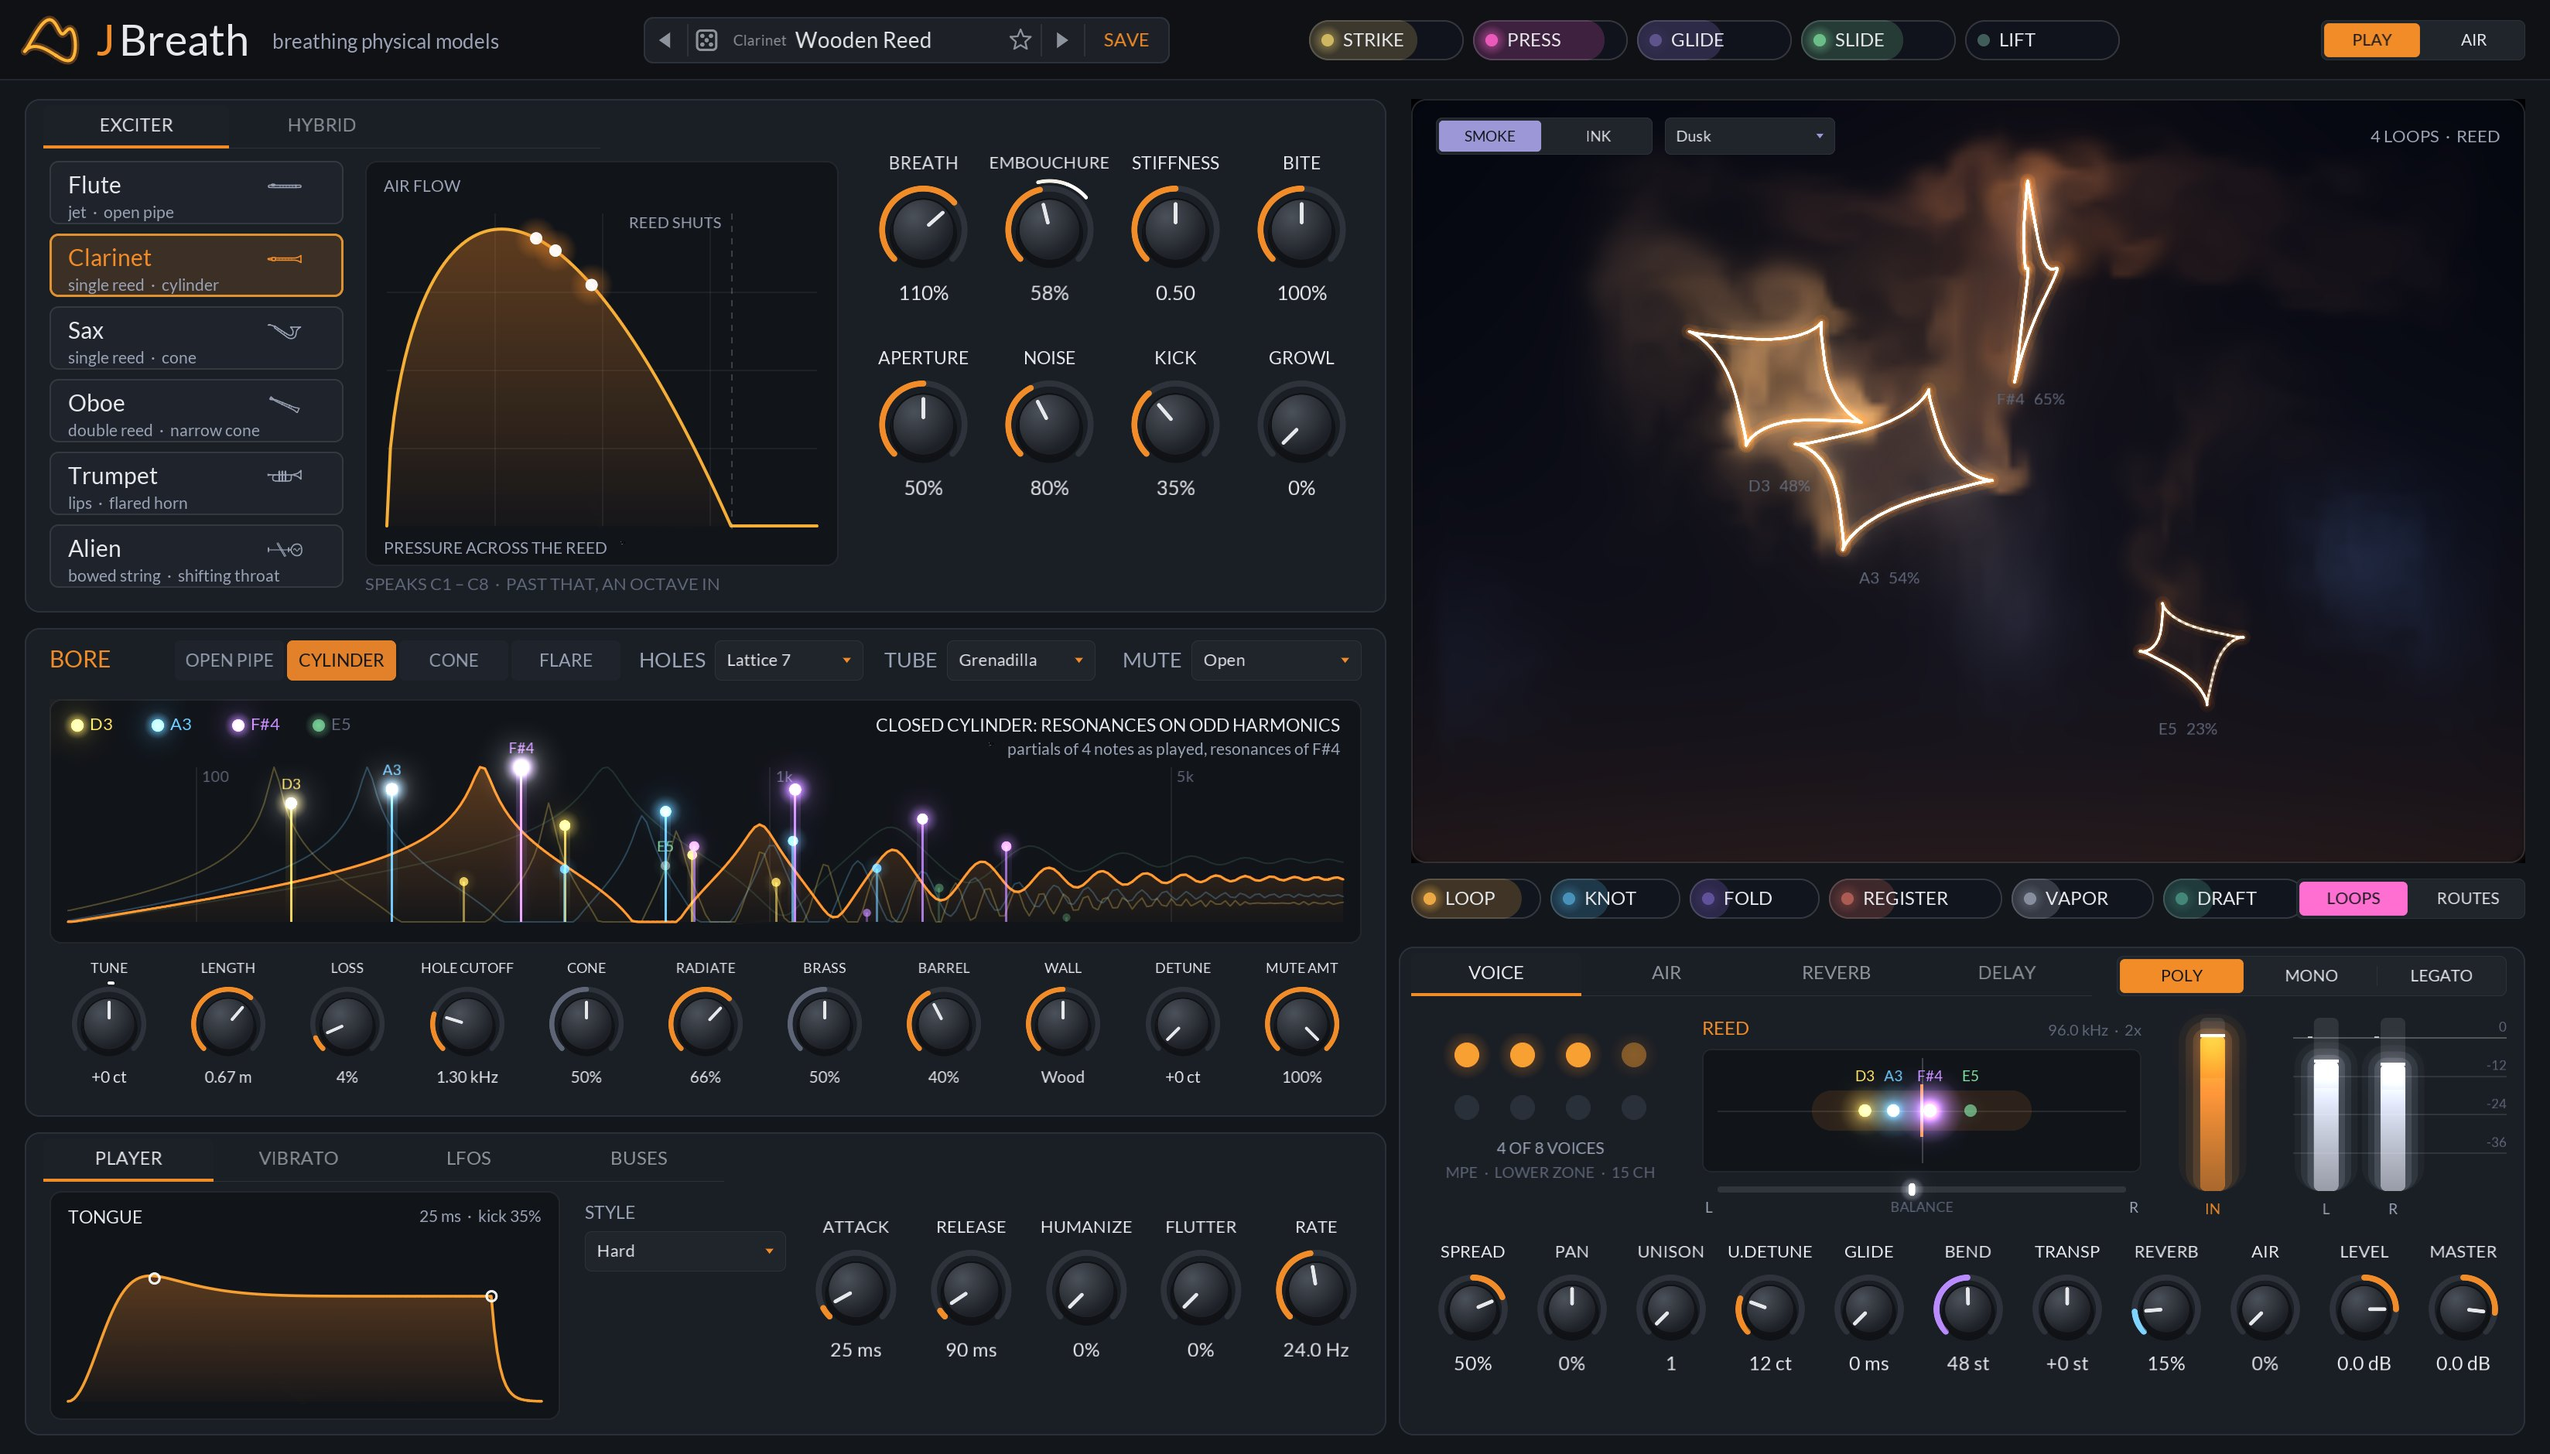
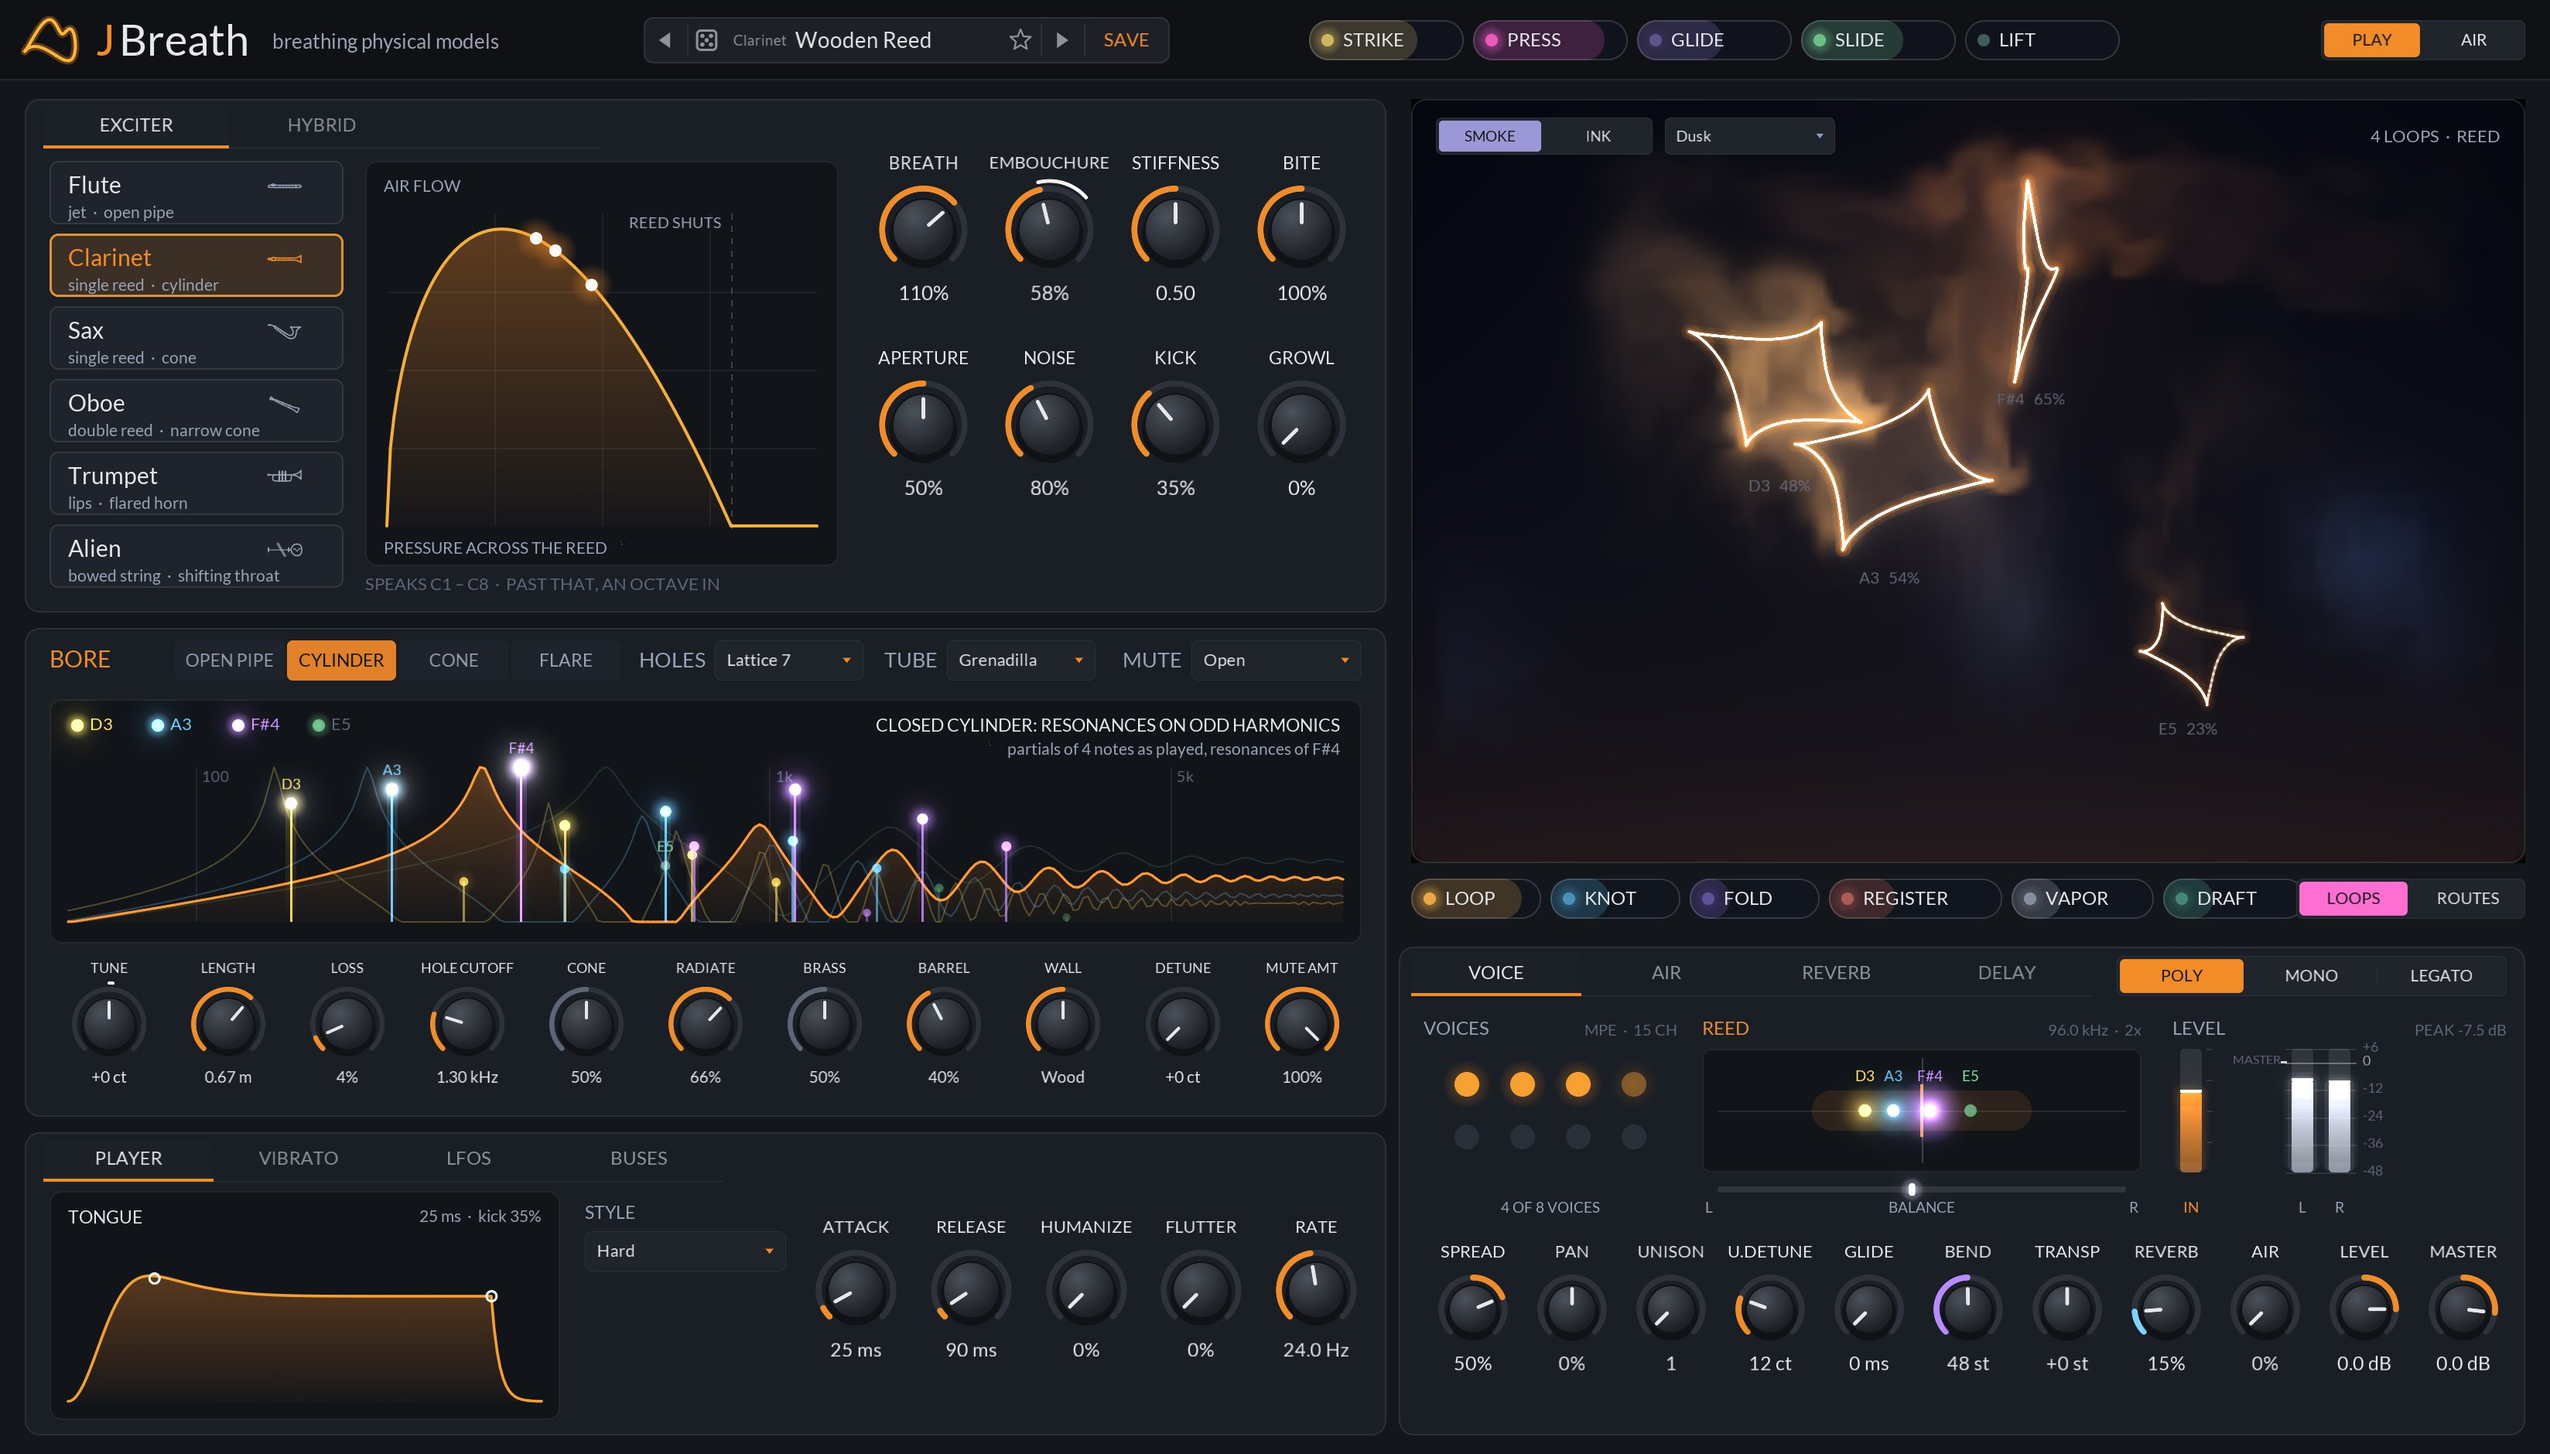
JBreath 0.11.1: the VOICE tab's views line up, and the meters read true
- The voices, the stereo field and the levels share one set of rows: a title on each (VOICES,
  the family, LEVEL), their fields the same height, their captions on one line.
- LEVEL: L and R side by side on one dB scale (+6 to -48), its numbers beside them and a
  notch at Master; the held peak in dB on the title. The halos stay round their own bars.
- IN shows the breath straight, 0 to full, not as decibels, which kept it near the top
  whenever a note was blown at all.

Claude-Session: https://claude.ai/code/session_01FGswf6T58FwHTW2TvDQNF7

Changed region(s): [[0.8438, 0.6787, 0.9688, 0.833], [0.5625, 0.7096, 0.6562, 0.833]]

diff --git a/plugins/jbreath/src/editor.cpp b/plugins/jbreath/src/editor.cpp
@@ -67,6 +67,11 @@ constexpr unsigned kWell = 0xff111419;
 constexpr unsigned kPress = 0xffff6fd2;
 // A colour for each voice slot, so a note keeps it while it's held: its partials on the bore and its
 // place in the stereo field are drawn in it.
+// The VOICE tab's three views (the voices, the stereo field and the levels) share their rows, in
+// design units of a 132-high view: a title at the top, the field, a strip under it and a caption.
+constexpr float kVoiceViewHeight = 132, kFieldTop = 22, kFieldHeight = 80, kStripY = kFieldTop + kFieldHeight + 9,
+                kCaptionY = kVoiceViewHeight - 15;
+
 constexpr unsigned kSlotColors[kVoiceCount] = {0xffffe066, 0xff6fc8ff, 0xffc58bff, 0xff7fe0a0,
                                                0xffff7a9c, 0xff5fe0d8, 0xffc8f07a, 0xffe0e6ff};
 
@@ -1093,8 +1098,11 @@ public:
       const float k = s(), W = width() / k;
       const unsigned color = modelColor(model_);
       int count = 0;
+      // The same rows as the stereo view and the levels beside it: a title, the field, a caption.
+      label(c, "VOICES", 0, 0, W, kDim, 12.0f);
+      const float mid = kFieldTop + kFieldHeight / 2;
       for (int i = 0; i < kVoiceCount; ++i) {
-         const float cx = (W / 2 - 54 + (i % 4) * 36) * k, cy = (14 + (i / 4) * 34) * k;
+         const float cx = (W / 2 - 54 + (i % 4) * 36) * k, cy = (mid - 17 + (i / 4) * 34) * k;
          const bool on = i < static_cast<int>(voices_.size()) && voices_[i].note >= 0;
          if (on) {
             ++count;
@@ -1109,9 +1117,9 @@ public:
       }
       char t[64];
       std::snprintf(t, sizeof(t), "%d OF %d VOICES", count, mode_ == kPoly ? kVoiceCount : 1);
-      label(c, t, 0, 66, W, kDim, 10.5f, visage::Font::kCenter);
-      label(c, mode_ == kPoly ? "MPE  ·  LOWER ZONE  ·  15 CH" : mode_ == kMono ? "MONO  ·  TONGUED" : "MONO  ·  SLURRED", 0, 82, W,
-            kFaint, 10.0f, visage::Font::kCenter);
+      label(c, t, 0, kCaptionY, W, kDim, 9.5f, visage::Font::kCenter);
+      label(c, mode_ == kPoly ? "MPE  ·  15 CH" : mode_ == kMono ? "TONGUED" : "SLURRED", 0, 2, W, kFaint, 10.0f,
+            visage::Font::kRight);
    }
 
 private:
@@ -1156,7 +1164,7 @@ public:
          std::snprintf(t, sizeof(t), "%.1f kHz", rate_ / 1000.0);
       label(c, t, 0, 2, W, kFaint, 10.0f, visage::Font::kRight);
       // The field.
-      const float top = 22, fh = H - 52, mid = top + fh / 2;
+      const float top = kFieldTop, fh = kFieldHeight, mid = top + fh / 2;
       c.setColor(kWell);
       c.roundedRectangle(0, top * k, width(), fh * k, 6 * k);
       c.setColor(visage::Color(0x14ffffff));
@@ -1186,7 +1194,7 @@ public:
          label(c, ui::noteName(d.note), x / k - 20, mid - 30, 40, vc, 9.5f, visage::Font::kCenter);
       }
       // The output's balance, from its peaks: a needle under the field.
-      const float by = top + fh + 9;
+      const float by = kStripY;
       c.setColor(visage::Color(0x16ffffff));
       c.roundedRectangle(10 * k, by * k, (W - 20) * k, 4 * k, 2 * k);
       const float bx = xOf(balance_);
@@ -1194,9 +1202,9 @@ public:
       c.circle(bx - 8 * k, (by + 2) * k - 8 * k, 16 * k);
       c.setColor(glow(0xffdfe6f5, 0.95f, 1.3f));
       c.roundedRectangle(bx - 2 * k, (by - 2) * k, 4 * k, 8 * k, 2 * k);
-      label(c, "L", 2, H - 15, 20, kDim, 9.5f);
-      label(c, "BALANCE", 0, H - 15, W, kFaint, 9.0f, visage::Font::kCenter);
-      label(c, "R", W - 22, H - 15, 20, kDim, 9.5f, visage::Font::kRight);
+      label(c, "L", 2, kCaptionY, 20, kDim, 9.5f);
+      label(c, "BALANCE", 0, kCaptionY, W, kDim, 9.5f, visage::Font::kCenter);
+      label(c, "R", W - 22, kCaptionY, 20, kDim, 9.5f, visage::Font::kRight);
    }
 
 private:
@@ -1229,56 +1237,76 @@ public:
       redraw();
    }
    void draw(visage::Canvas &c) override {
-      const float k = s(), W = width() / k, H = height() / k;
-      bloom_.setBloomSize(12.0f * k * (dpiScale() > 0.0f ? dpiScale() : 1.0f));
-      const float top = 6, bottom = H - 20;
-      // IN is on its own scale, -36..0; the output -48..+6.
-      const auto unit = [](int i, double db) {
-         return i == 0 ? static_cast<float>((std::clamp(db, -36.0, 0.0) + 36.0) / 36.0)
-                       : static_cast<float>((std::clamp(db, -48.0, 6.0) + 48.0) / 54.0);
+      const float k = s(), W = width() / k;
+      bloom_.setBloomSize(10.0f * k * (dpiScale() > 0.0f ? dpiScale() : 1.0f));
+      // The same rows as the stereo view: the title (and the output's held peak, in dB), the bars
+      // in the field's height, their names on the caption row.
+      const double peakDb = std::max(hold_[1], hold_[2]) > 1e-5f ? 20.0 * std::log10(std::max(hold_[1], hold_[2])) : -90.0;
+      label(c, "LEVEL", 0, 0, W, kDim, 12.0f);
+      char t[32];
+      if (peakDb > -60.0)
+         std::snprintf(t, sizeof(t), "PEAK %+.1f dB", peakDb);
+      else
+         std::snprintf(t, sizeof(t), "PEAK  -inf");
+      label(c, t, 0, 2, W, peakDb > 0.0 ? 0xffff5a4a : kFaint, 10.0f, visage::Font::kRight);
+      const float top = kFieldTop, bottom = kFieldTop + kFieldHeight;
+      // IN is the breath, 0 to full, straight; the output is in dB, -48 to +6.
+      const auto unit = [](int i, double v) {
+         if (i == 0)
+            return static_cast<float>(std::clamp(v, 0.0, 1.0));
+         const double db = v > 1e-5 ? 20.0 * std::log10(v) : -90.0;
+         return static_cast<float>((std::clamp(db, -48.0, 6.0) + 48.0) / 54.0);
       };
-      const auto yOf = [&](int i, double db) { return bottom - unit(i, db) * (bottom - top); };
-      for (int db : {0, -12, -24, -36}) {
-         c.setColor(visage::Color(db == 0 ? 0x40ffffff : 0x16ffffff));
-         c.fill(W * 0.36f * k, yOf(1, db) * k, W * 0.64f * k, 1 * k);
-         label(c, db == 0 ? "0" : std::to_string(db), W - 24, yOf(1, db) - 14, 24, kFaint, 8.5f, visage::Font::kRight);
+      const auto yAt = [&](float u) { return bottom - u * (bottom - top); };
+      const auto yDb = [&](double db) { return yAt(static_cast<float>((db + 48.0) / 54.0)); };
+      const float bw = 14, xs[3] = {12, 84, 108};
+      // The output's scale: a line across L and R at each mark, its number to the right.
+      for (int db : {6, 0, -12, -24, -36, -48}) {
+         const float y = yDb(db);
+         c.setColor(visage::Color(db == 0 ? 0x50ffffff : 0x18ffffff));
+         c.fill((xs[1] - bw / 2 - 4) * k, y * k, (xs[2] - xs[1] + bw + 8) * k, 1 * k);
+         label(c, db > 0 ? "+6" : std::to_string(db), xs[2] + bw / 2 + 8, y - 8.5f, 30, db == 0 ? kDim : kFaint, 9.0f);
+      }
+      // IN's: quarters.
+      for (float q : {0.25f, 0.5f, 0.75f, 1.0f}) {
+         c.setColor(visage::Color(0x18ffffff));
+         c.fill((xs[0] + bw / 2 + 3) * k, yAt(q) * k, 4 * k, 1 * k);
       }
       const unsigned colors[3] = {modelColor(model_), 0xffdfe6f5, 0xffdfe6f5};
       const char *names[3] = {"IN", "L", "R"};
-      const float bw = 16, xs[3] = {W * 0.12f, W * 0.46f, W * 0.66f};
       for (int i = 0; i < 3; ++i) {
          const float x = xs[i] - bw / 2;
          c.setColor(visage::Color(0x16ffffff));
-         c.roundedRectangle(x * k, top * k, bw * k, (bottom - top) * k, 4 * k);
-         const double db = level_[i] > 1e-5f ? 20.0 * std::log10(level_[i]) : -90.0;
-         const float u = unit(i, db), y = yOf(i, db);
+         c.roundedRectangle(x * k, top * k, bw * k, (bottom - top) * k, 3 * k);
+         const float u = unit(i, level_[i]), y = yAt(u);
          if (u > 0.0f) {
-            // The glow grows with the level: a wide soft halo, then the bar itself.
-            for (int ring = 3; ring >= 1; --ring) {
-               const float g = ring * (1.5f + 3.5f * u);
-               c.setColor(glow(colors[i], 0.05f * u * (4 - ring)));
-               c.roundedRectangle((x - g) * k, (y - g) * k, (bw + 2 * g) * k, (bottom - y + g) * k, (4 + g) * k);
+            // A soft halo, wider the louder, then the bar.
+            for (int ring = 2; ring >= 1; --ring) {
+               const float g = ring * (1.0f + 2.0f * u);
+               c.setColor(glow(colors[i], 0.06f * u * (3 - ring)));
+               c.roundedRectangle((x - g) * k, (y - g) * k, (bw + 2 * g) * k, (bottom - y + g) * k, (3 + g) * k);
             }
-            c.setColor(visage::Brush::vertical(glow(colors[i], 0.75f + 0.25f * u, 1.0f + 0.35f * u), glow(colors[i], 0.5f)));
-            c.roundedRectangle(x * k, y * k, bw * k, (bottom - y) * k, 4 * k);
-            if (i > 0 && db > 0.0) {
+            c.setColor(visage::Brush::vertical(glow(colors[i], 0.8f + 0.2f * u, 1.0f + 0.35f * u), glow(colors[i], 0.45f)));
+            c.roundedRectangle(x * k, y * k, bw * k, (bottom - y) * k, 3 * k);
+            if (i > 0 && y < yDb(0.0)) {
                c.setColor(glow(0xffff5a4a, 1.0f, 1.6f));
-               c.roundedRectangle(x * k, y * k, bw * k, (yOf(i, 0.0) - y) * k, 3 * k);
+               c.roundedRectangle(x * k, y * k, bw * k, (yDb(0.0) - y) * k, 3 * k);
             }
          }
          // The held peak.
-         const double hdb = hold_[i] > 1e-5f ? 20.0 * std::log10(hold_[i]) : -90.0;
-         if (unit(i, hdb) > 0.0f) {
-            c.setColor(glow(hdb > 0.0 && i > 0 ? 0xffff5a4a : 0xffffffff, 0.9f, 1.4f));
-            c.fill(x * k, (yOf(i, hdb) - 1) * k, bw * k, 2 * k);
+         const float hu = unit(i, hold_[i]);
+         if (hu > 0.0f) {
+            const bool over = i > 0 && yAt(hu) < yDb(0.0);
+            c.setColor(glow(over ? 0xffff5a4a : 0xffffffff, 0.9f, 1.4f));
+            c.fill(x * k, (yAt(hu) - 1) * k, bw * k, 2 * k);
          }
-         if (i > 0) {
-            c.setColor(visage::Color(0xaaffffff));
-            const float ty = yOf(i, masterDb_);
-            c.fill((x - 4) * k, (ty - 0.5f) * k, 3 * k, 1 * k);
-         }
-         label(c, names[i], xs[i] - 20, H - 16, 40, i == 0 ? colors[0] : kDim, 9.5f, visage::Font::kCenter);
+         label(c, names[i], xs[i] - 20, kCaptionY, 40, i == 0 ? colors[0] : kDim, 9.5f, visage::Font::kCenter);
       }
+      // Where Master is set: a small notch on the scale's left, beside L.
+      const float my = yDb(std::clamp(masterDb_, -48.0, 6.0));
+      c.setColor(visage::Color(0xccffffff));
+      c.fill((xs[1] - bw / 2 - 7) * k, (my - 0.75f) * k, 4 * k, 1.5f * k);
+      label(c, "MASTER", 26, my - 8.5f, 44, kFaint, 8.0f, visage::Font::kRight);
    }
 
 private:
@@ -3035,10 +3063,10 @@ private:
       tips_.add(mode, "Poly: eight voices. Mono: one, tongued between notes. Legato: one, slurred between notes.");
 
       // VOICE: the voices, where they sit in the stereo field, and the levels.
-      lights_ = &tabs.addToPage(0, add<VoiceLights>({912, 668, 180, 100}, 180.0f));
+      lights_ = &tabs.addToPage(0, add<VoiceLights>({920, 656, 164, 132}, 164.0f));
       stereo_ = &tabs.addToPage(0, add<StereoView>({1100, 656, 284, 132}, 284.0f));
       tips_.add(*stereo_, "Where each voice is heard, left to right: Spread fans the notes out (low to the left), Pan moves them all. The needle under it is the output's balance.");
-      levels_ = &tabs.addToPage(0, add<LevelView>({1404, 652, 216, 138}, 216.0f));
+      levels_ = &tabs.addToPage(0, add<LevelView>({1404, 656, 216, 132}, 216.0f));
       tips_.add(*levels_, "In: the breath coming in (the hardest-blown voice, or Breath In). L and R: the output, with its peak held and a tick at Master. If it turns red, lower Level or Master.");
 
       // AIR: where the breath comes from and how it's shaped.
